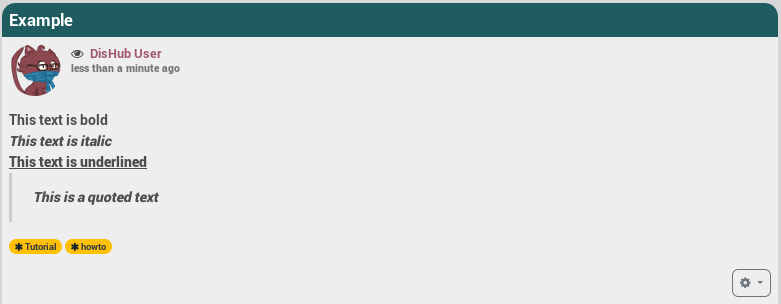
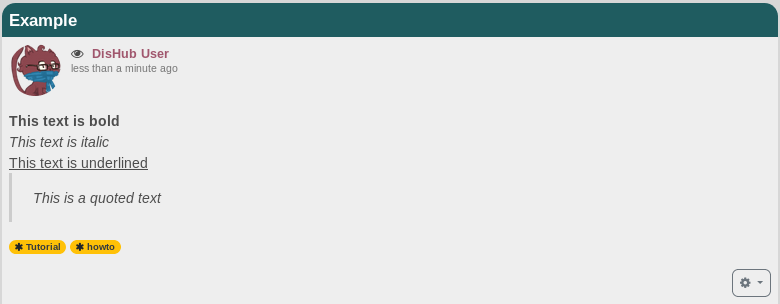
Removed the share with other network options and edited the images

diff --git a/pages/10.DisHub/07.Posts/01.Composing/docs.en.md b/pages/10.DisHub/07.Posts/01.Composing/docs.en.md
@@ -7,79 +7,68 @@ taxonomy:
 page-toc:
      active: false
 ---
+### Basic composing.  
 
-## Basic composing
-If you want to share something, just click on the **share bar** ![Share](en/Share.png) that you can find on the top of the **your Channel page**, your **Activity/Network page** and on most of the **others channels pages** (except if not allowed).
+If you want to share something you klick on the share bar, and this is what you will see.
+![Share](en/Share.png)  
 
-This is what you will happen:
-![Compising_composer](en/Composing_composer.gif)
-
-The first thing you probably want to do is setting a **title**. It's not obligatory, so it's up to you if you want to set one or not. However, it is a good practise to set one as it makes your post more visible.
-
-The same thing is for the **categories** part. Here you can add one or more categories, "tags", just separate each words/sentences you add by a comma. For example **How to, hubzilla**.
-Here again, it's a good practise to use categories as it helps people to find your posts easier. Indeed, when there is a **Categories widget** on the channel that you visit, you can click on the category you're interested in so that if filters all the channel's posts that have been composed with this tag.
-![Composing_categories](en/Composing_categories.png)
-
-Now the first basic options you have when composing your post are **Bold, Italic, Underline, Quote and Code**.
-So when composing you want for example to write some text in bold, you click on the bold button and put the text you want in between the **[b]** tags. Or you can write your text first, then select waht you want to change (for example select your text and click on **B** to set it bold).
-![ShareExample](en/ShareExample.gif)
-
+The fisrt thing you probably want to do is setting a title. It's not obligatory, so it's up to you if you want to set one or not.
+The same thing is for the categories part. Here you can add one oor more categoies. Comma separated.  
+For example **How to, hubzilla** .  
+Now the first basic options you have when composing your post are Bold, Italic, Underline, Quote and Code.
+![ShareExample](en/ShareExample.gif)  
 And here is the result
-![ExamplePreview](en/ExamplePreview.png)
+![ExamplePreview](en/ExamplePreview.png)  
 
----
+So when composing you want for example to write som text in bold, you klick on the bold button and put the text you want in between the **[b]** tags. And its the same thing for all the other options like you can see on the example above.
 
-## Code button
-This one needs some explanation.  
-If you have trouble with for example **bbcode**, and want to ask someone advise or maybe you want to give advise on how to write something, then you can the **code** button. It allows to show what you write in between **[code]my text[/code]** without it being rendered. Without this tag only the rendered version will be shown.
-
+#### Code button
+This one needs some explaiation.  
+If you have trouble with for example **bbcode**, and want to ask someone advise or maybe you want to give advise on how to write something, then you can best use the code tag if you want to show the code without it being rendered. Without this tag only the rendered version will be shown.
 Here is an example
 ![CodeExample](en/CodeeExample.gif)  
-As you an see, you can add the type of code you're writing. For example here, it is php: **[code=php]**
 
 ---
 
-## Adding something to the post
+### Adding something to the post
 
-With the next three buttons you can easily **attach a file** from your device, **insert a weblink** or **embed an image** from your photo album (the photo has to be in your folder before it can be added).  
+With the next three buttons you can easely attach a file, insert a weblink or embed an image from your photo album.  
 ![AddButtons](en/AddButtons.png)  
-They are pretty self explanatory, so don't need further explanation.
-
-**Note**: If you want to embed an image without having to upload it first on one of your albums you can use the attach button and select an image from your device. If you're on a computer, you can also simply add your picture by dragging it direclty in your post.
+They are pretty self explanatory, so don't need further explaination.  
+Except of  
+!!! If you want to embed an image without having to upload it first on one of your albums you can use the attach button and select an image from your device.
 
 ---
 
-## Options
+### Options
 
 You can find the options on the next group of buttons.  
 ![OptionButtons](en/OptionButtons.png)  
-
-### The options are:
-* **Set your location**: you are able to share your location with others. A popup opens asking you to set the location you want, so it's not using geolocalization ![compsing_location](en/Composing_location.png)
-* **Set expiration date**: the post will autodestruct on the date set.
-* **Set publish date**: the post will be published in a future date.
-* **Encrypt text**: this let's you encrypt text. Therefore you need to set a passphrase and make sure the ones that you want to share with know the passphrase.
-* **Toggle voting**: If you want others to vote for something. They will have those options ![voting](en/Voting.png) on your post when clicking on this icon.
-* **Disabling comments**: if you don't want comments on your post.
+#### The options are:
+* Set your location.
+ * Here you are able to share your location with others
+* Set expiration date.
+  * It means that the post will autodestruct on date.
+* Set publish date.
+ * If you want a post to be published in a future date.
+* Encript text.
+ * This let's you encript text. Therefore you need to set a passphrase an make shure the ones that you want to share with, know the passphrase.
+* Toggle voting.
+ * If you want others to vote for somtething. They will have those options ![voting](en/Voting.png)
+* Disabling comments.
+ * If you don't want comments on your post.
 
  ---
 
-## Before sharing
+ ### Before sharing
 
-Before clicking on the **Share** button you may want to check the permissions and preview you post. These option are next to the **Share** button.
-![BeforeSharing](en/BeforeSharing.png)  
+ Before click on the share button you want to check the permissions and the preview of that post.  
+ The options are next tot the share button.
+ ![BeforeSharing](en/BeforeSharing.png)  
 
-### These options are:
-* **Preview**: let you see a preview of your post. This preview appears just under your actual post.
-* **Share with other networks and post services**: You can restrict the post in hubzilla or choose to open it to other networks like Friendica.
-* **Permission settings**: Here you choose with whom you share the post. Most of the time, you won't even click on that button as it is automatically set according to your channel role. However, you change who can see your post: to the public, to a group, more groups, or only one connnction. You can also set it that one or several connections or groups are not allowed to view the post. YOU CAN'T CHANGE IT ONCE POSTED!
-For more information it's reccommended to visit [the permissions](../permissions) section.
-
----
-
-## Who can see my posts and where?
-Well, it depends on a few things: your channel role, the permission settings of the post, the permissions you set for your connections, etc.
-
-Depending of these permissions:
-- **Public** may see your posts in the **Public stream** or by visiting **your channel**.
-- **Connections** may also see your posts in their **Network stream**.
+#### The options are:
+ * preview.
+  * Let's you see a preview
+ * Permission settings.
+  * Here you choose with who you share the post. Public, to a group, more groups, or only one Contact. You can also set it that the Connection or group is not allowed to view the post.
+  For more information it's reccommended to visit [the permissions](../permissions) chapter.
